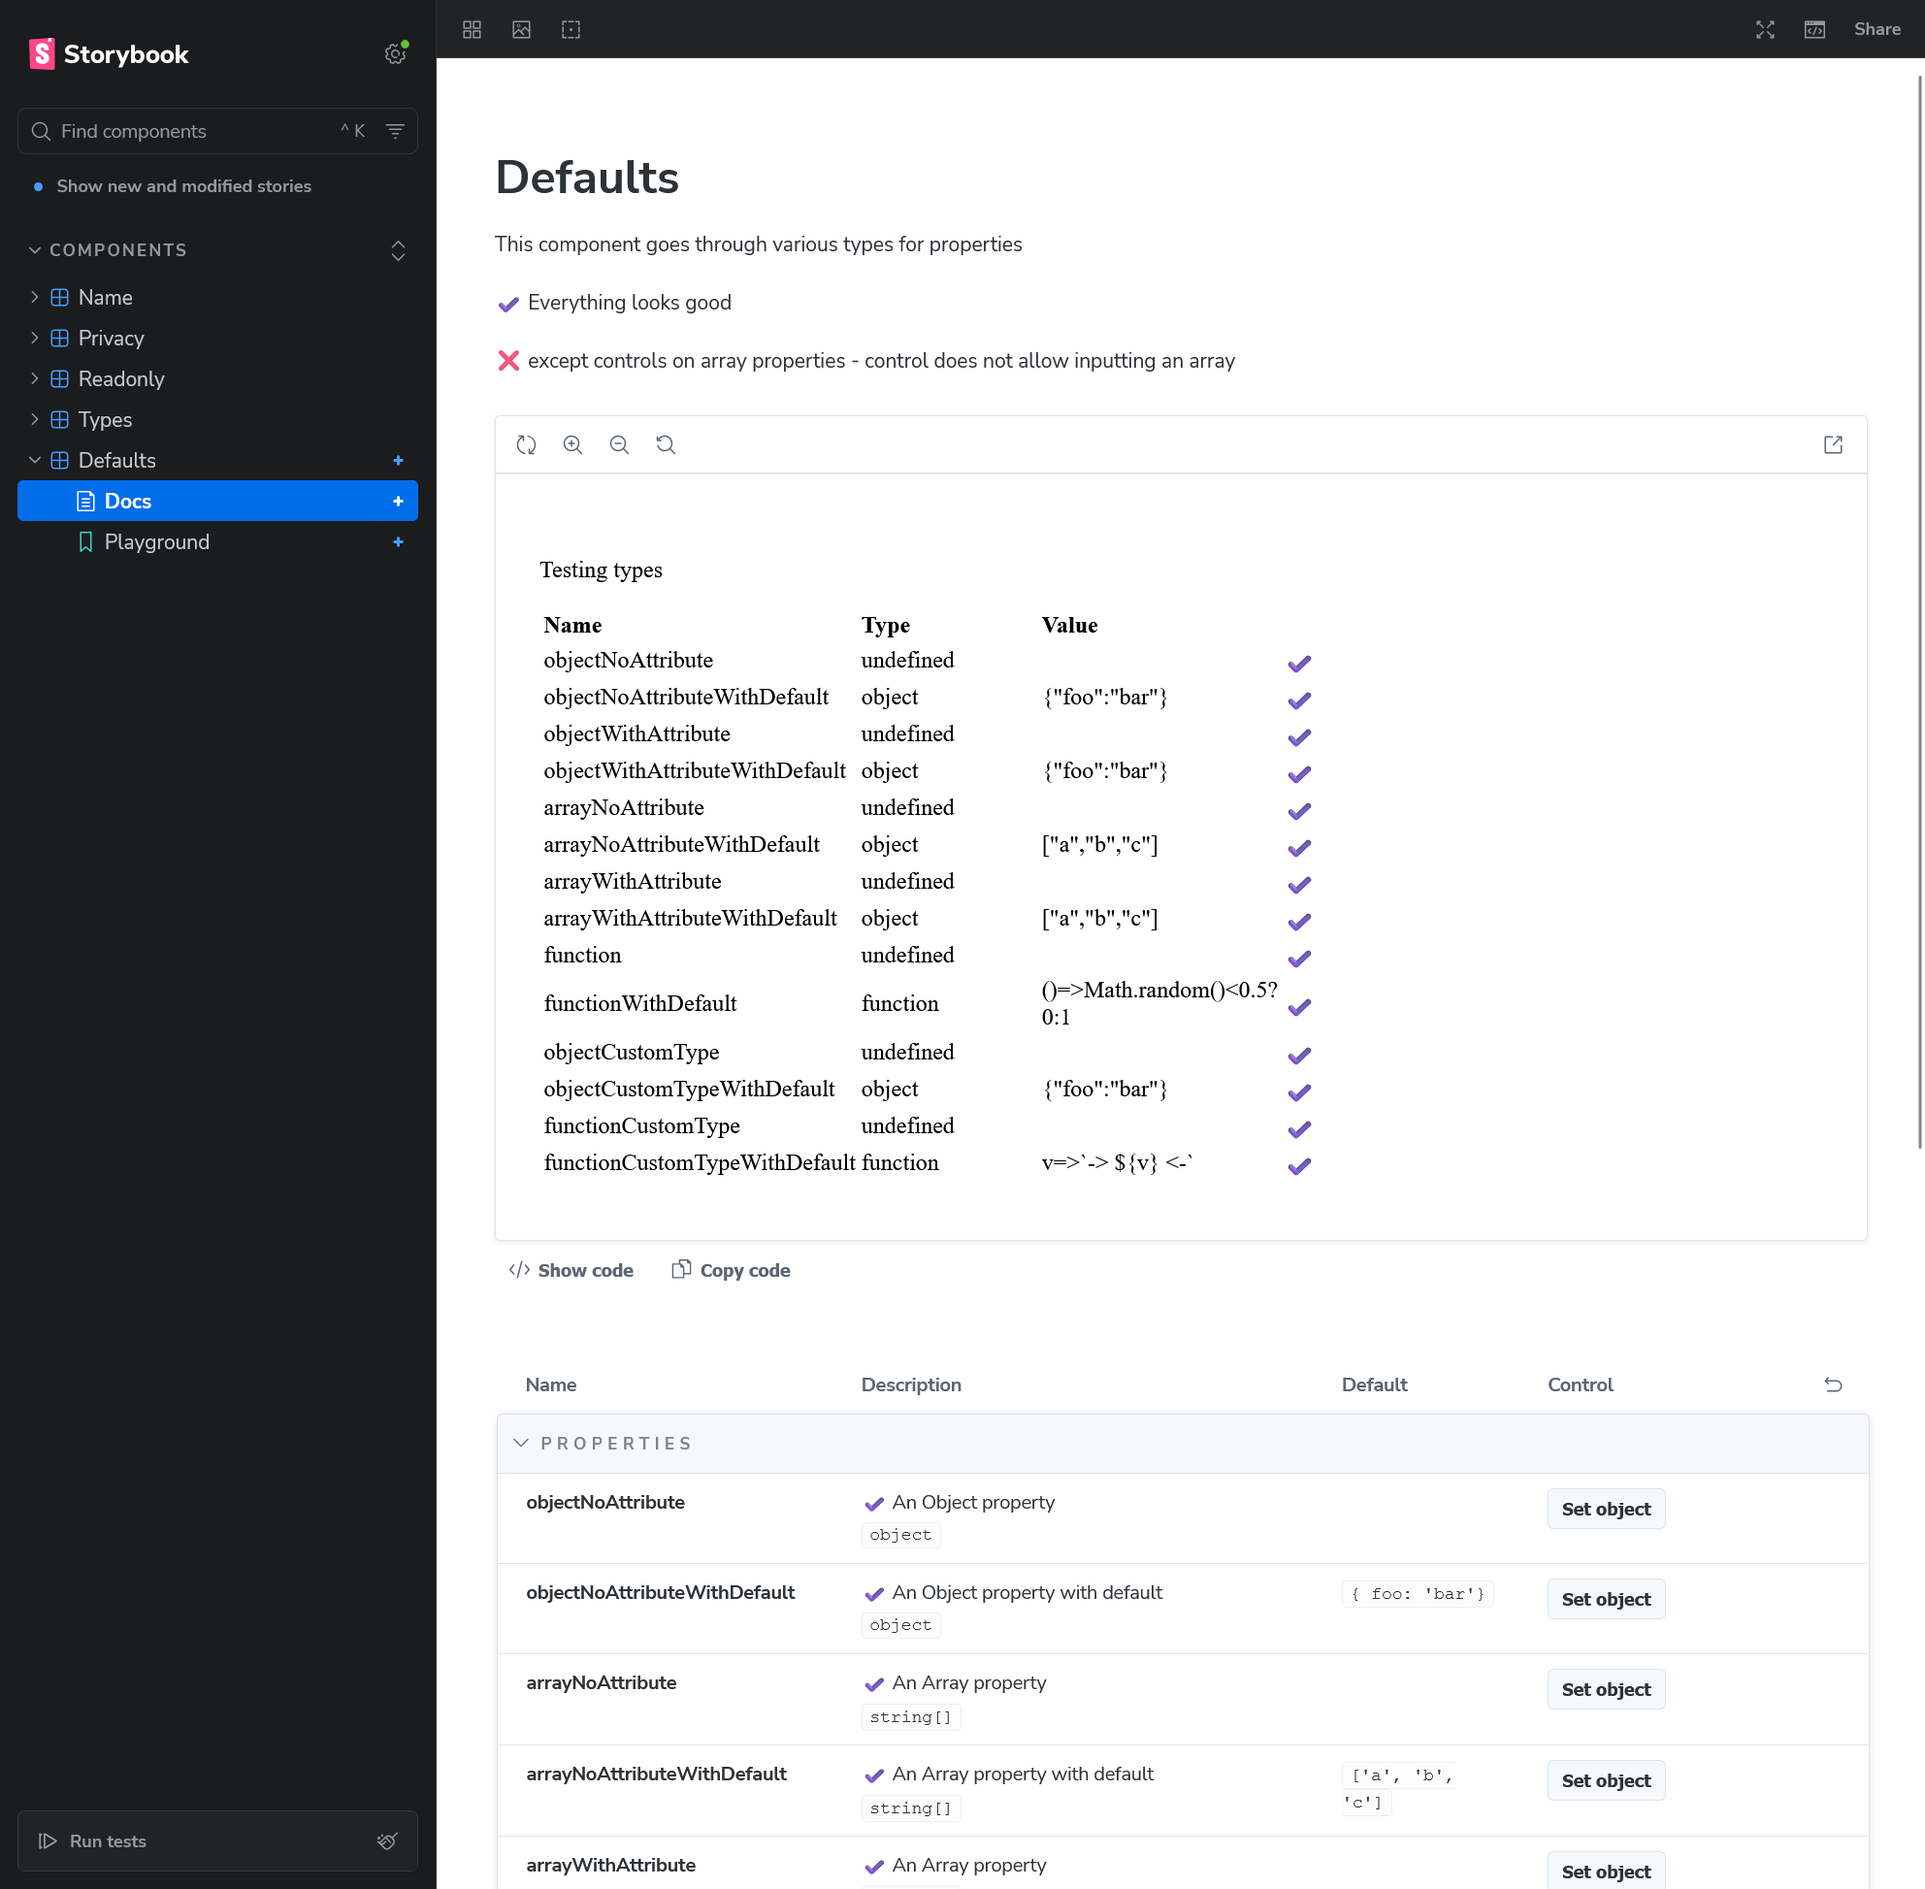
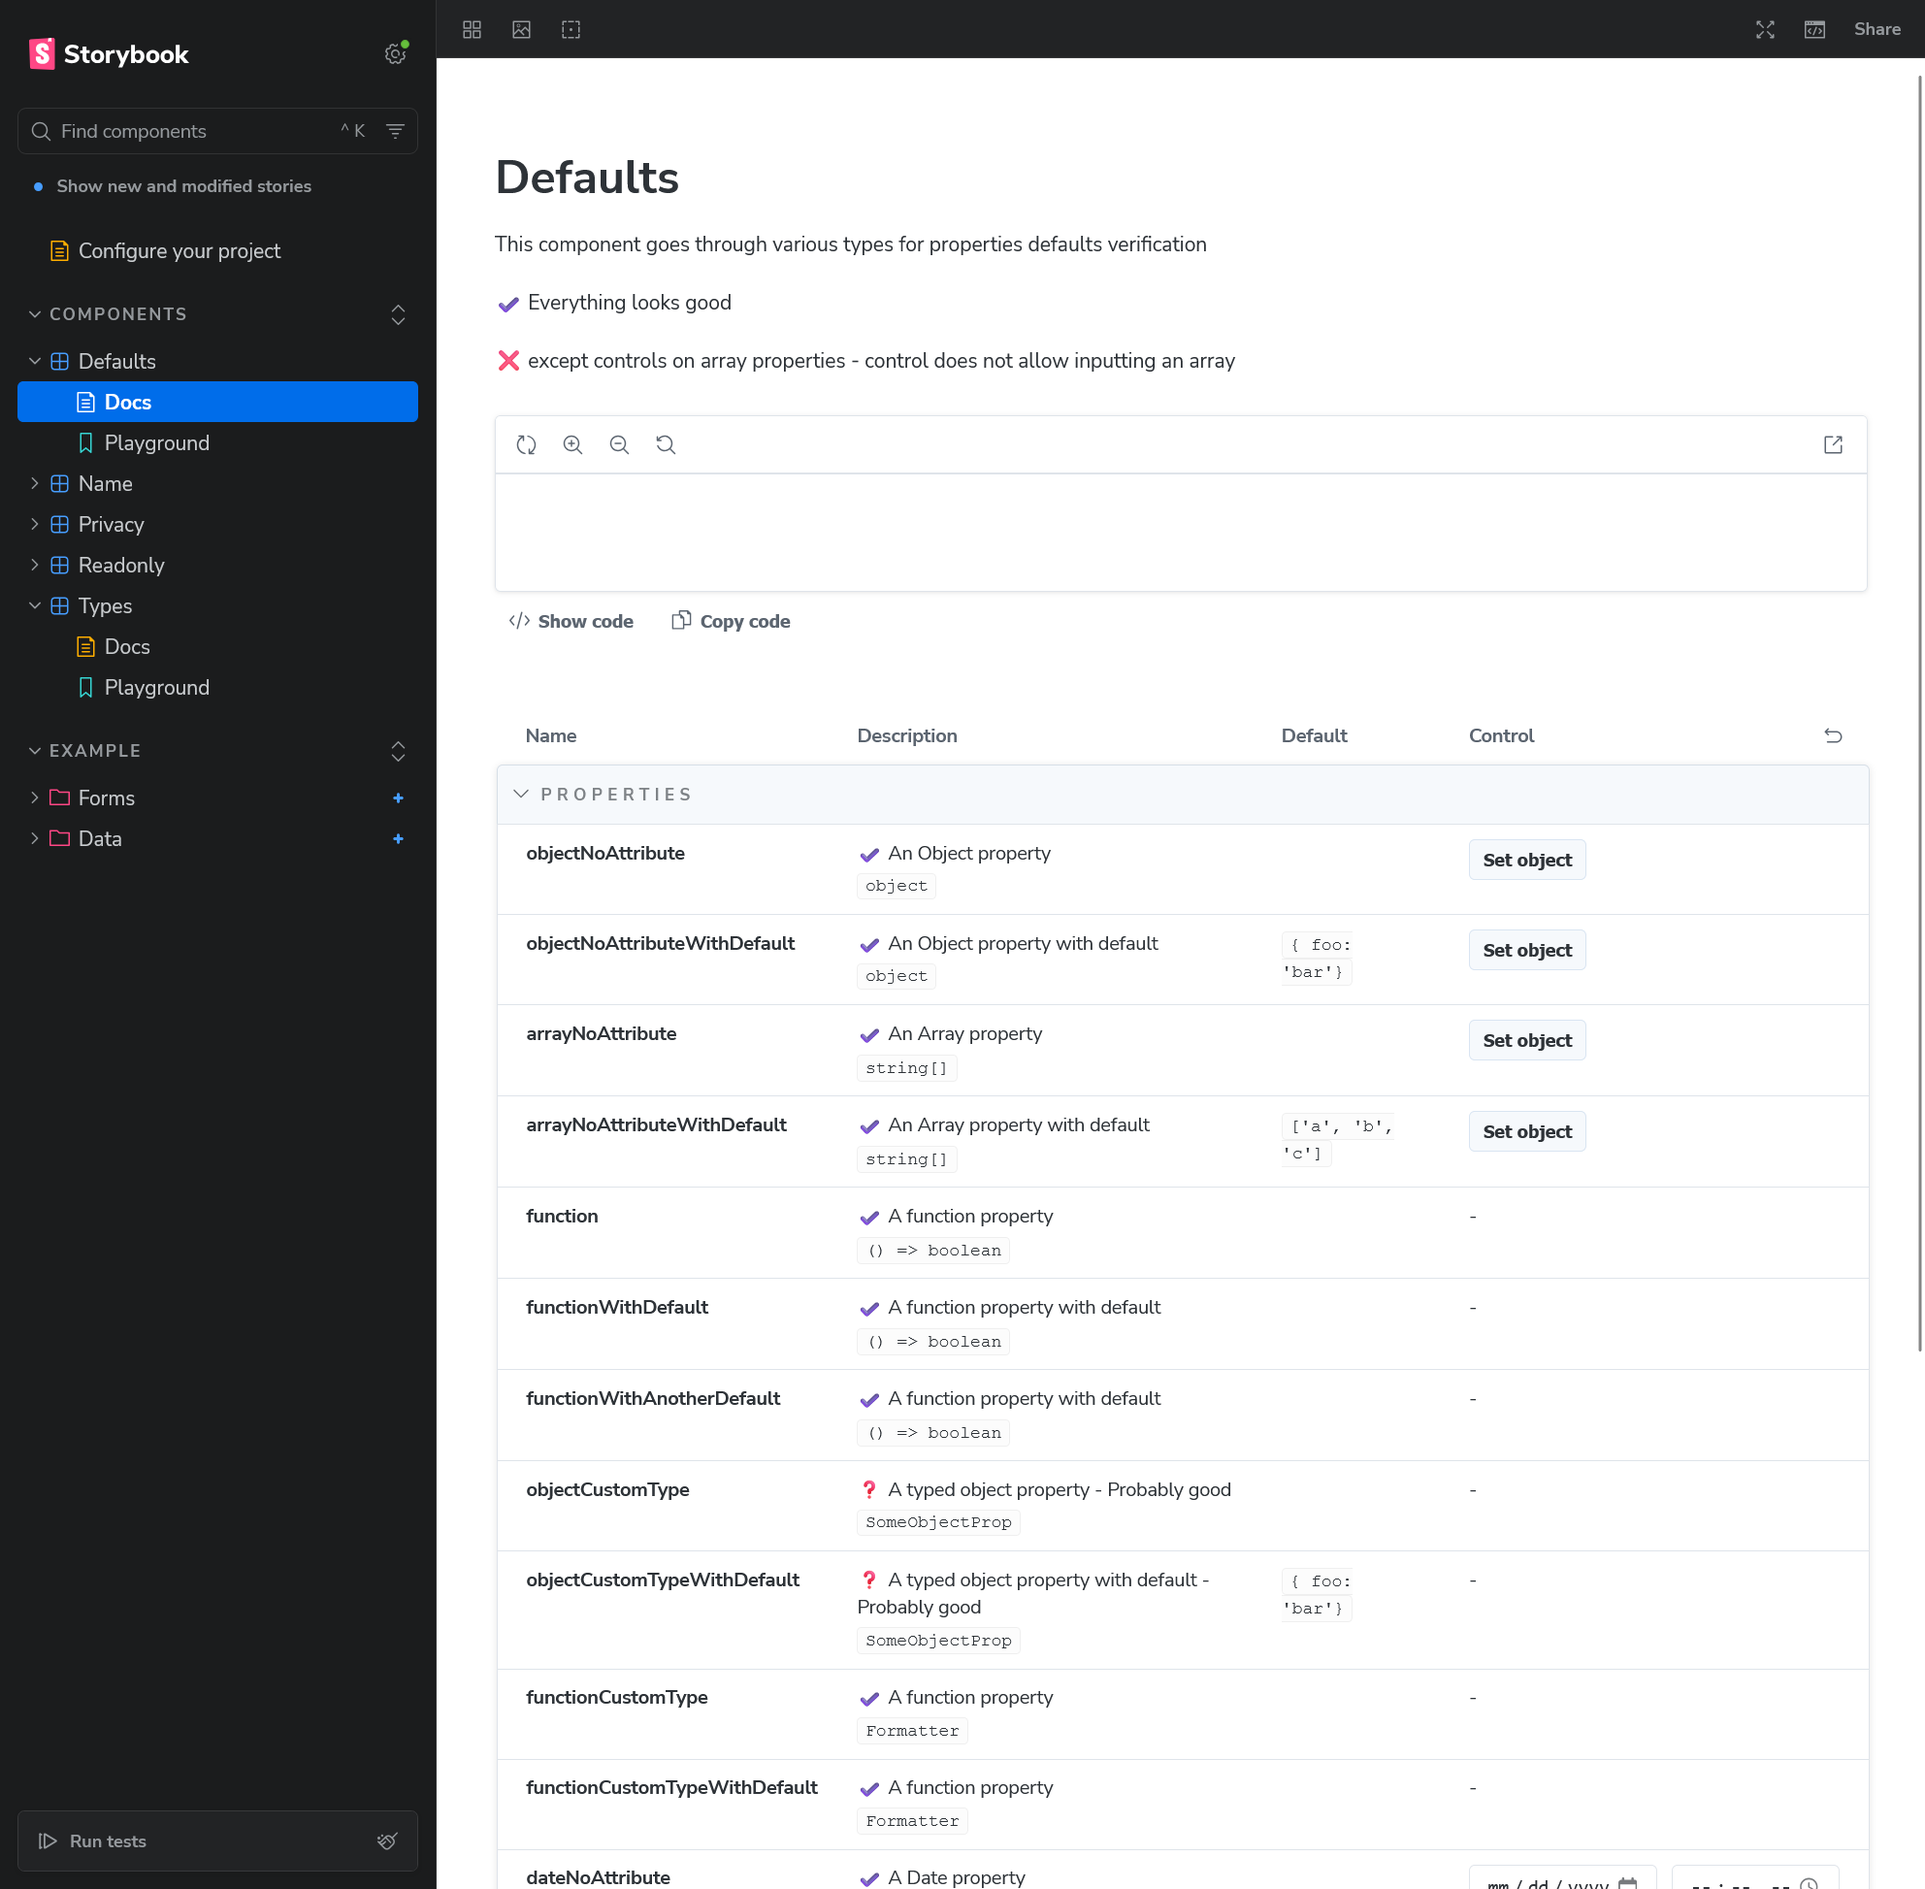
Few changes

diff --git a/src/components/w-defaults/w-defaults.js b/src/components/w-defaults/w-defaults.js
@@ -61,14 +61,14 @@ export class WDefaults extends LitElement {
    * ✔ An Array property
    * @type {string[]}
    */
-  @property({ attribute: false })
+  @property({ type: Array })
   accessor arrayWithAttribute;
 
   /**
    * ✔ An Array property with default
    * @type {string[]}
    */
-  @property({ attribute: false })
+  @property({ type: Array })
   accessor arrayWithAttributeWithDefault = ['a', 'b', 'c'];
 
   /* Function */
@@ -122,6 +122,22 @@ export class WDefaults extends LitElement {
   @property({attribute: false })
   accessor functionCustomTypeWithDefault = (v) => `-> ${v} <-`;
 
+  /* Dates */
+  /**
+   * ✔ A Date property
+   * @type {Date}
+   */
+  @property({ attribute: false })
+  accessor dateNoAttribute;
+
+  /**
+   * ✔ A Date property with default
+   * @type {Date}
+   */
+  @property({ attribute: false })
+  accessor dateNoAttributeWithDefault = new Date();
+
+
   render() {
     return html`
       <p>Testing types</p>
@@ -148,6 +164,8 @@ export class WDefaults extends LitElement {
             ${this.__printValue('objectCustomTypeWithDefault', 'object')}
             ${this.__printValue('functionCustomType', 'undefined')}
             ${this.__printValue('functionCustomTypeWithDefault', 'function')}
+            ${this.__printValue('dateNoAttribute', 'undefined')}
+            ${this.__printValue('dateNoAttributeWithDefault', null, 'Date')}
           </tbody>
       </table>
     `;

diff --git a/src/components/w-types/w-types.js b/src/components/w-types/w-types.js
@@ -16,6 +16,8 @@ import {when} from 'lit/directives/when.js';
  * ✔ A enumeration property with a lot of values - control is OK
  *
  * ✔ An object property - control is not available (as expected)
+ *
+ * ✔ A date property - control is OK
  */
 @customElement('w-types')
 export class WTypes extends LitElement {
@@ -68,6 +70,13 @@ export class WTypes extends LitElement {
   @property({ type: String })
   accessor functionProp = () => true;
 
+  /**
+   * ✔ An Date property.
+   * @type {Date}
+   */
+  @property({ type: Date })
+  accessor dateProp = new Date();
+
   render() {
     return html`
       <p>Testing types</p>
@@ -86,6 +95,7 @@ export class WTypes extends LitElement {
             ${this.__printValue('color', 'string')}            
             ${this.__printValue('objectProp', 'object')}
             ${this.__printValue('functionProp', 'function')}
+            ${this.__printValue('dateProp', 'object')}
           </tbody>
       </table>
     `;

diff --git a/README.md b/README.md
@@ -43,4 +43,5 @@ This is now fixed, and tests have been adjusted.
 - Native integration fo the CEM feels good.
 - It reduces the redundant boilerplate code required to write stories _(`wc-toolkit/storybook-helpers` already did a great job, but native integration pushes it further)_
 - Not having a default bound value is a good idea. Having to explicitly hit the "Set string/object" button actually makes it easier to test components default behavior.
+- I'm looking forward to having code live update _(previous render of the generated DOM was not ideal either because it was lacking non attribute properties - ie `.prop` or `@event` in Lit)_
 - One thing that would be good, is a button to clear the assigned value in a control, and go back to the unbound value state.
